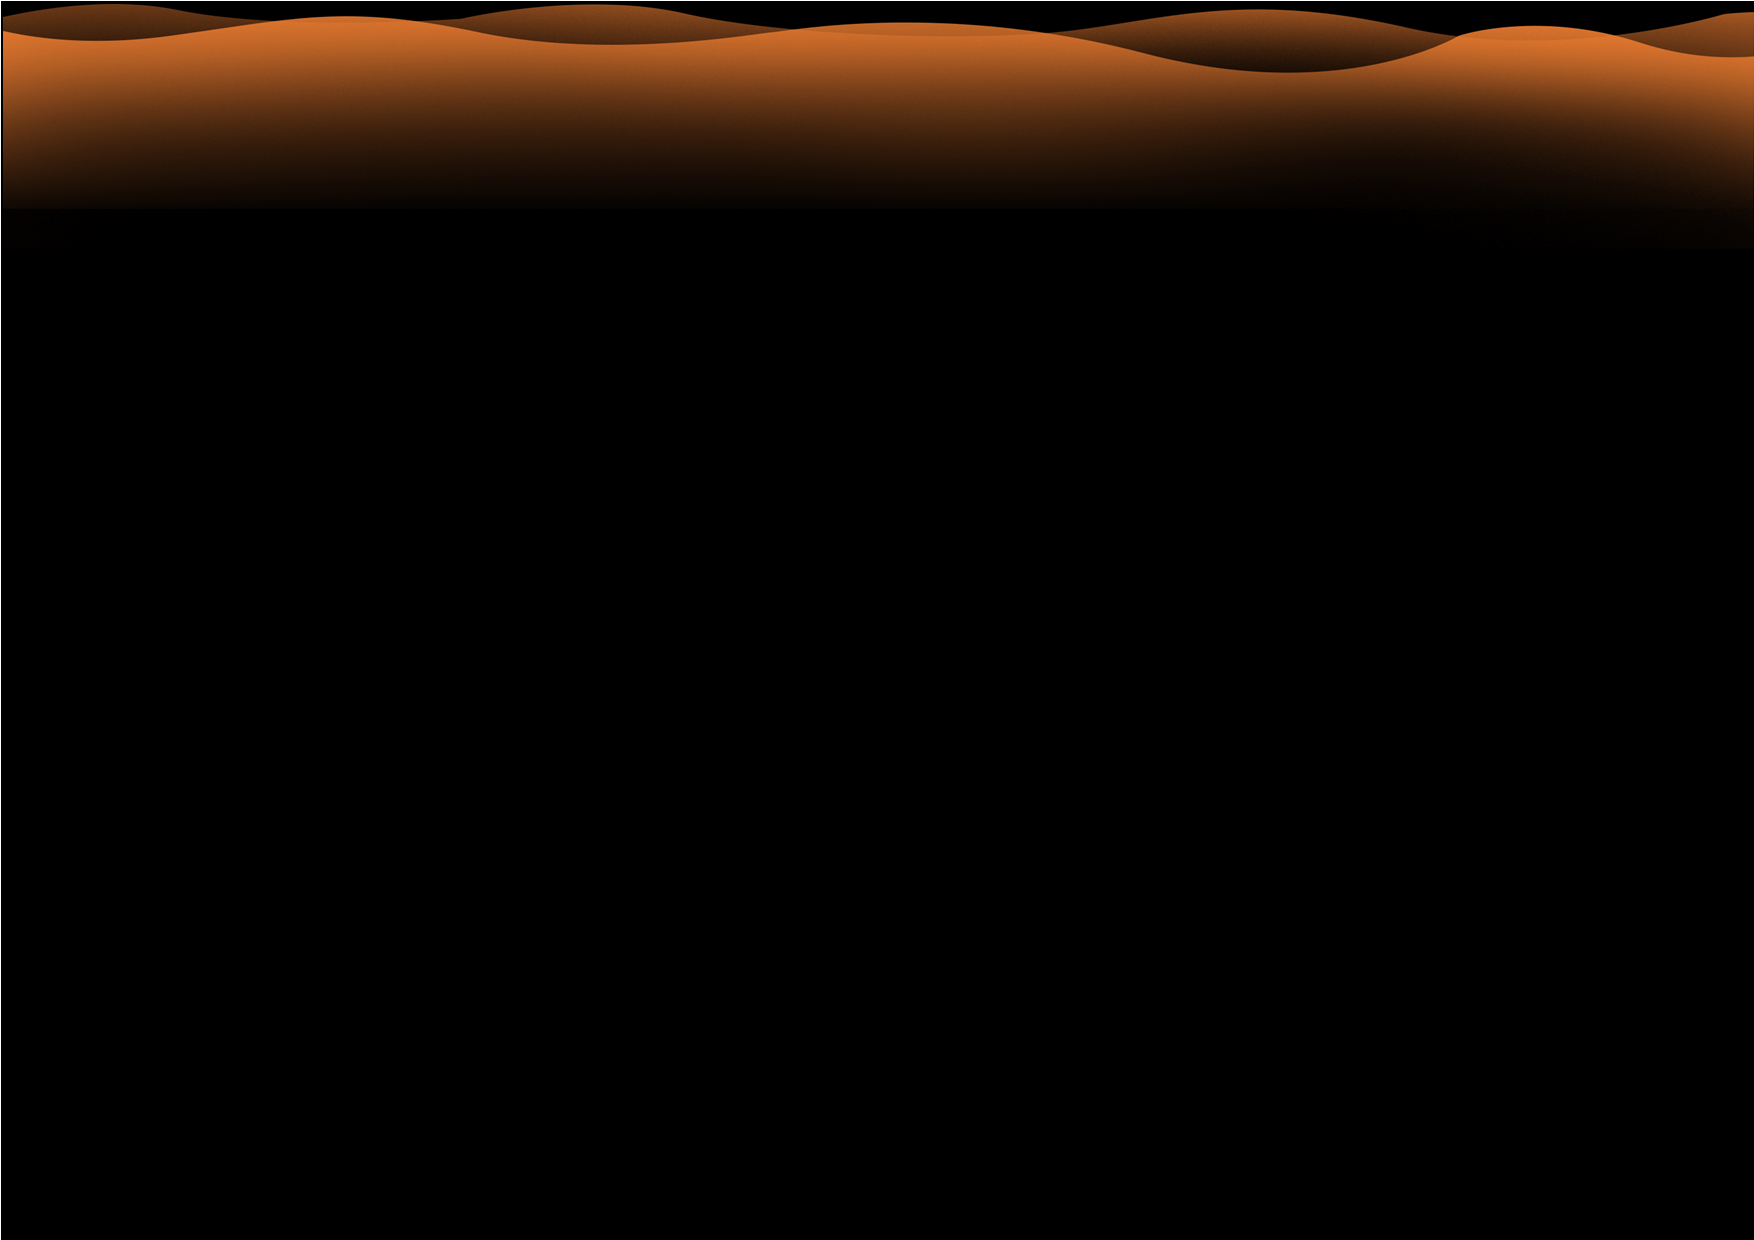
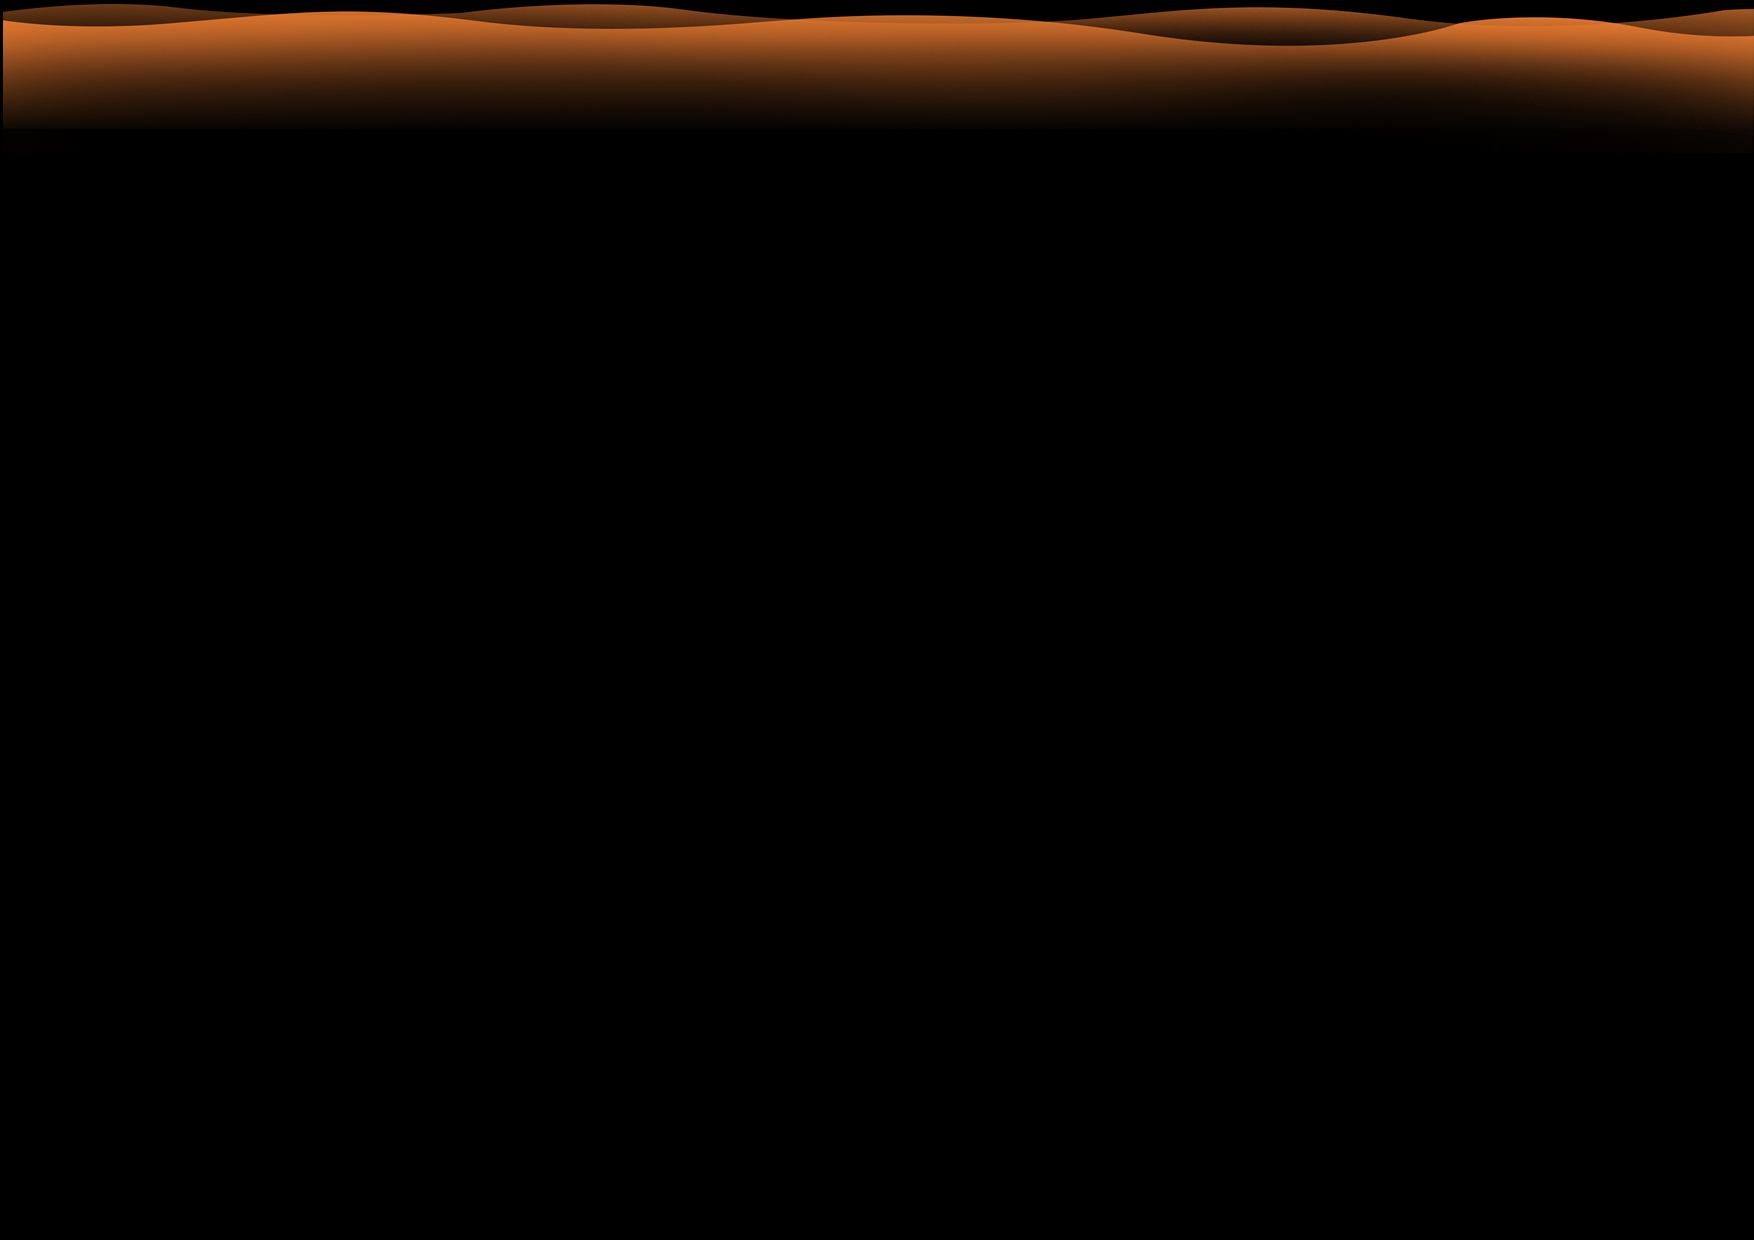
actual

Changed region(s): [[0.0, 0.0, 1.0, 0.1839]]

diff --git a/src/public/css/main.css b/src/public/css/main.css
@@ -6,7 +6,7 @@ display: none
 body {
     
     background-image: url('/img/fondoweb.png');
-    background-repeat: repeat;   
+    background-repeat: no-repeat;   
    /* background: linear-gradient(180deg, rgb(250, 250, 252) 38%, rgb(250, 250, 252) 38%, rgb(1, 1, 29) 38%);
     background-position: center center;
     background-repeat: repeat;
@@ -211,7 +211,7 @@ input,textarea,button{
 }
 .navbar {
     font-size: 1.5rem;  
-    /*font-family: 'Oswald', sans-serif;  */
+    font-family: 'Oswald', sans-serif;  
    /* background-color:#010414;*/
    /* color: white !important; */
     position:-webkit-sticky;
@@ -224,12 +224,12 @@ input,textarea,button{
 
 .navbar-brand:hover,
 .navbar-brand:focus {
-     color:white !important;
+     color:orangered !important;
 }
 #navbarNav li:hover > a {
     color:white;
     font-size: 1rem;    
-    /*font-family: 'Oswald', sans-serif;*/
+    font-family: 'Oswald', sans-serif;
 }
 .nav-item{       
     font-size: 1rem;   
